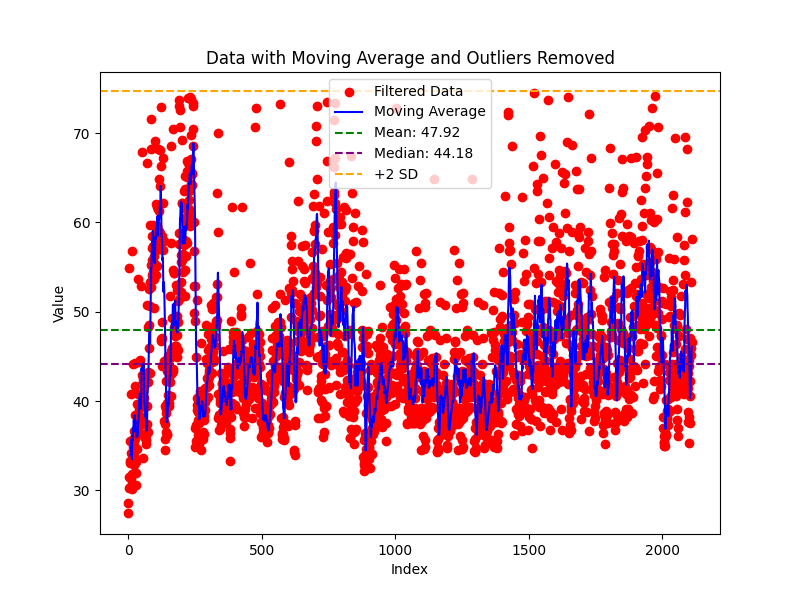
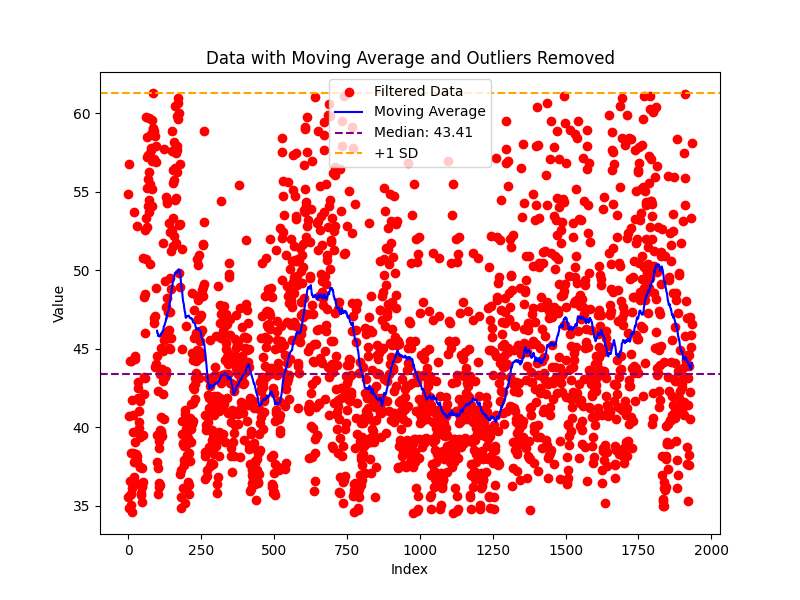
Update graph_Maker.py with window size and median calculation

diff --git a/time_logs/graph_Maker.py b/time_logs/graph_Maker.py
@@ -12,15 +12,14 @@ data_array = np.array(data)
 
 # Calculate mean, median, and standard deviation
 mean = np.mean(data_array)
-median = np.median(data_array)
 std_dev = np.std(data_array)
 
-# Remove outliers above 2 standard deviations
 two_std = 2 * std_dev
 filtered_data = data_array[abs(data_array - mean) < two_std]
+median = np.median(filtered_data)
 
 # Calculate 10-point moving average
-window = 10
+window = 100
 moving_avg = np.convolve(filtered_data, np.ones(window) / window, mode="valid")
 
 # Create a figure and plot the data
@@ -34,7 +33,7 @@ plt.plot(
     color="blue",
     label="Moving Average",
 )
-plt.axhline(y=mean, color="green", linestyle="--", label=f"Mean: {mean:.2f}")
+# plt.axhline(y=mean, color="green", linestyle="--", label=f"Mean: {mean:.2f}")
 plt.axhline(y=median, color="purple", linestyle="--", label=f"Median: {median:.2f}")
 plt.axhline(y=mean + two_std, color="orange", linestyle="--", label="+2 SD")
 plt.xlabel("Index")
